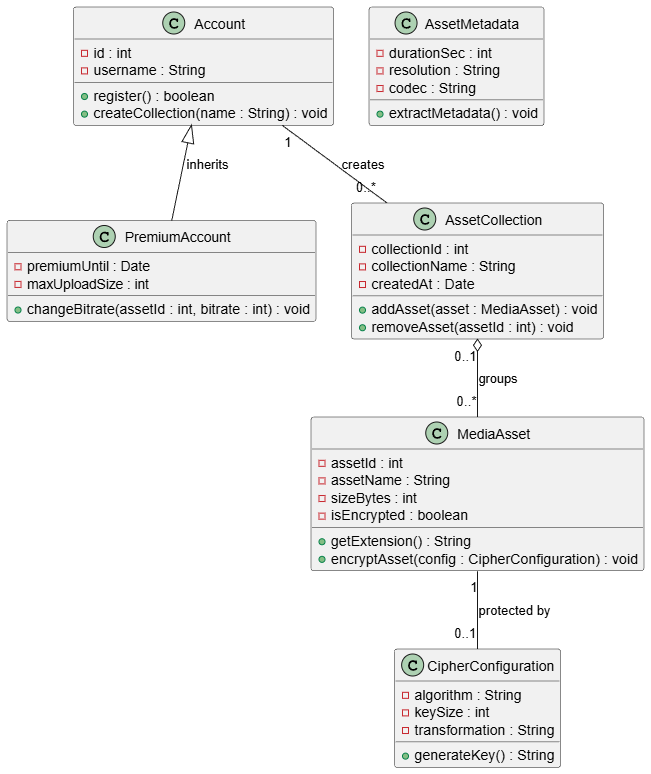
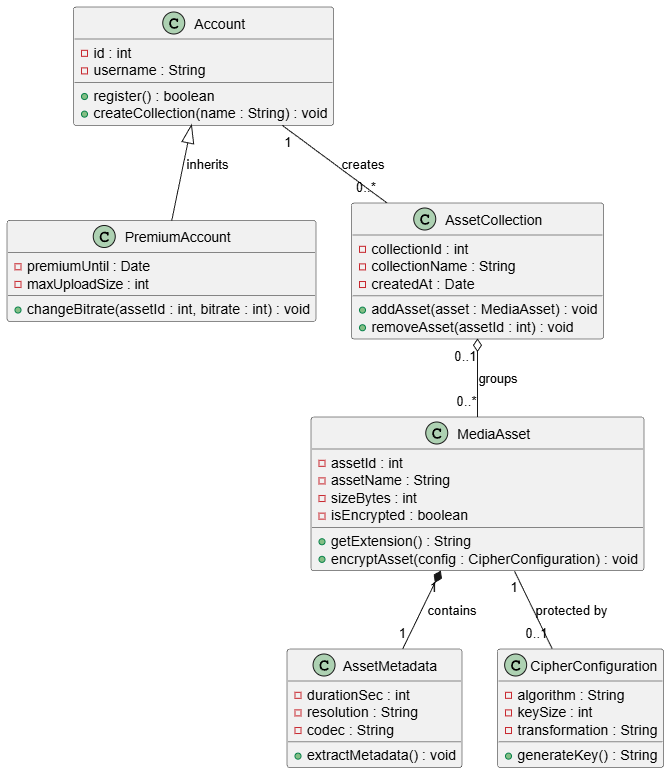
fix: виправлено помилку в діаграмі класів

diff --git a/reports/LR2/traceability.md b/reports/LR2/traceability.md
@@ -1,9 +1,9 @@
-| Вимога | Use Case | Класи                                | Sequence               |
-| :----: | :------: | :----------------------------------- | :--------------------- |
-| FR-01  |  UC-01   | Account, AssetCollection, MediaAsset | SD-01 (Імпорт ресурсу) |
-| FR-02  |    —     | —                                    | —                      |
-| FR-03  |    —     | —                                    | —                      |
-| FR-04  |    —     | —                                    | —                      |
-| FR-05  |    —     | —                                    | —                      |
-| FR-06  |  UC-06   | MediaAsset                           | SD-01 (фрагмент)       |
-| FR-07  |    —     | —                                    | —                      |
+| Вимога | Use Case | Класи                                                | Sequence               |
+| :----: | :------: | :--------------------------------------------------- | :--------------------- |
+| FR-01  |  UC-01   | Account, AssetCollection, MediaAsset, PremiumAccount | SD-01 (Імпорт ресурсу) |
+| FR-02  |    —     | —                                                    | —                      |
+| FR-03  |    —     | —                                                    | —                      |
+| FR-04  |    —     | —                                                    | —                      |
+| FR-05  |    —     | —                                                    | —                      |
+| FR-06  |  UC-06   | MediaAsset, AssetMetadata                            | SD-01 (фрагмент)       |
+| FR-07  |    —     | —                                                    | —                      |